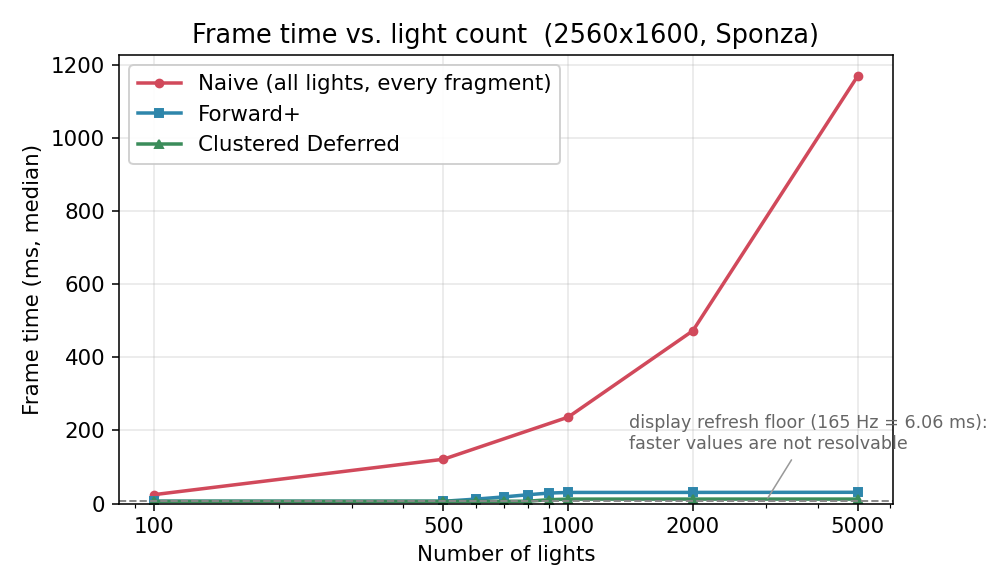
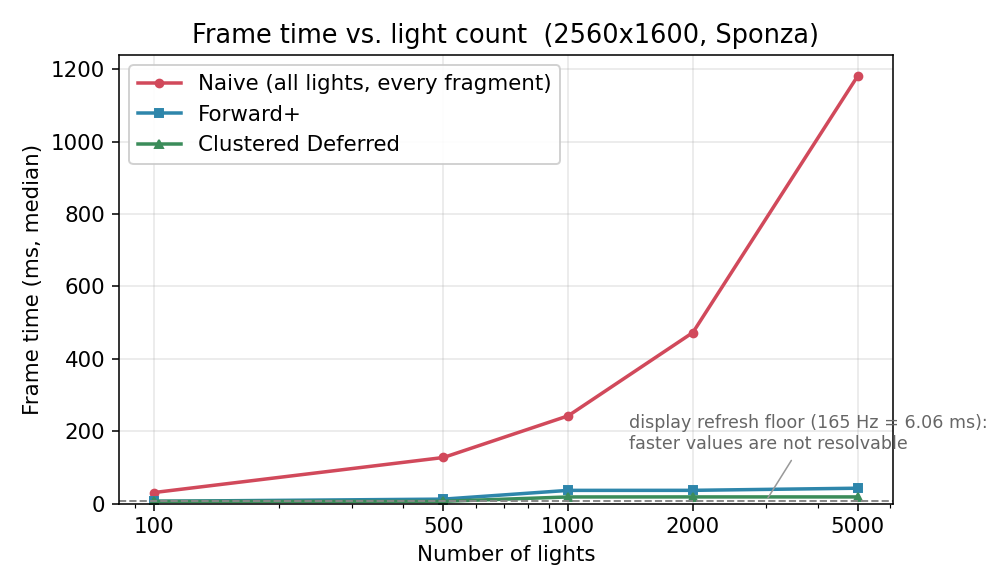
docs(readme): trim the write-up to the results
Keep the description, screenshots, video and the measured numbers; drop the explanations of why the algorithms behave the way they do, and refresh the performance charts and the G-buffer section for the optimised deferred renderer.

diff --git a/README.md b/README.md
@@ -1,10 +1,20 @@
 # WebGPU Forward+ and Clustered Deferred Shading
 
-**University of Pennsylvania, CIS 565: GPU Programming and Architecture, Project 4**
+**University of Pennsylvania, CIS 5650: GPU Programming and Architecture,
+Project 4 - WebGPU Forward+ and Clustered Deferred Shading**
 
-* Jing Huang
-* Tested on: **Google Chrome 154** on Windows 11, Intel i7-12700H @ 2.30GHz, 32GB,
+* **Jing Huang**
+  * [GitHub](https://github.com/Stabil1ze)
+* Tested on: Windows 11, Intel i7-12700H @ 2.30GHz, 32GB,
   NVIDIA GeForce RTX 3060 Laptop GPU 6GB
+
+> **Declaration of AI assistance.** In line with the course's policy on AI
+> tools: the analysis text of this README, the benchmark harness and the demo
+> video were drafted with the help of Codex. Every number below is produced by
+> code in this repository and can be reproduced with the harness described in
+> the performance section. The implementation, the design decisions and the
+> readings of the results were reviewed and accepted by the author, who is
+> responsible for their correctness.
 
 ### Live Demo
 
@@ -14,46 +24,35 @@
 
 [![demo video](img/preview.gif)](img/demo.mp4)
 
-A 45 second walkthrough of every mode is in [img/demo.mp4](img/demo.mp4): naive, Forward+,
-Clustered Deferred and the cluster debug view, ending with Forward+ and Clustered Deferred running
-the full 5000 lights.
+[img/demo.mp4](img/demo.mp4) is 45 seconds and covers all four modes: naive, Forward+, Clustered
+Deferred and the cluster debug view, ending with Forward+ and Clustered Deferred running the full
+5000 lights.
 
-## Overview
+## What is implemented
 
-The scene is the Sponza atrium with up to 5000 moving point lights. Three renderers are implemented
-on top of the provided framework, and the GUI switches between them:
+The scene is the Sponza atrium with up to 5000 moving point lights. The GUI
+switches between four renderers:
 
-| Mode | What it does |
+| Mode | |
 |---|---|
 | **Naive** | Every fragment loops over every light in the scene. |
-| **Forward+** | Lights are binned into a 3D cluster grid; each fragment only walks the lights of its own cluster. |
-| **Clustered Deferred** | Same clustering, but split into a G-buffer pass and a fullscreen shading pass so every pixel is lit exactly once. |
-| **Cluster debug** | Reuses the naive geometry pass with a different fragment shader to visualise the per-cluster light count. |
+| **Forward+** | 16 x 16 screen tiles x 24 exponentially spaced depth slices (6144 clusters); each fragment walks only the lights of its own cluster. |
+| **Clustered Deferred** | The same clustering, split into a G-buffer pass and a compute shading pass so every pixel is lit exactly once. |
+| **Cluster debug** | Tints every fragment by the number of lights in its cluster. |
 
-### Light clustering
+The Clustered Deferred G-buffer is a single colour output plus one `u32` per
+pixel - 8 bytes per pixel, plus depth:
 
-The view frustum is cut into **16 x 16 screen tiles x 24 depth slices** (6144 clusters). Depth
-slices grow exponentially, `d_k = near * (far/near)^(k/K)`, between `clusterNear` (the camera's near
-plane, so no gap is left in front of it) and `clusterFar = 100` world units, with the outermost
-slice reaching all the way to the far plane.
+| Target | Format | Bytes | Content |
+|---|---|---|---|
+| albedo | `rgba8unorm` | 4 | diffuse colour |
+| normal | `r32uint` | 4 | octahedral normal, two 16-bit components packed into one `u32` |
+| depth | `depth24plus` | 4 | depth testing, the cluster lookup and world position reconstruction |
 
-A uniform split of the NDC depth range looks like the simpler choice, but it is not usable here:
-the camera's near/far ratio is 0.1 : 1000 while NDC depth is a function of 1/d, so 23 of the 24
-slices would cover only the first 2.4 metres in front of the camera and the last slice would swallow
-everything from 2.4 to 1000 units, degenerating into the brute force loop. Slicing the view
-distance exponentially instead makes the distribution independent of the near/far ratio.
-
-The clustering compute shader gives each cluster one thread. It unprojects the eight corners of the
-cluster's frustum cell into world space, takes their AABB (the cell is the convex hull of those
-corners, so the AABB is a conservative bound), and then records the index of every light whose range
-sphere overlaps it. Lights are point lights with a hard range cutoff, so a light can only be seen by
-clusters its radius touches. Because the projection matrix follows the WebGPU depth convention
-(near to 0, far to 1), a fragment can recover its own view distance from the depth buffer value with
-`viewDistanceFromDepth`, which is how the shading passes find their cluster without needing the view
-matrix.
-
-Clusters are stored as two flat arrays - `clusterLightCounts` and `clusterLightIndices` - rather
-than an array of structs, which keeps the host-side stride unambiguous.
+World position is not stored: the shading pass recovers it from the depth
+buffer and the inverse view-projection matrix. The shading pass is a compute
+shader (8 x 8 workgroups, one thread per pixel) that writes straight into the
+canvas, replacing the vertex + fragment fullscreen pass.
 
 ## Screenshots
 
@@ -61,129 +60,75 @@ than an array of structs, which keeps the host-side stride unambiguous.
 |---|---|
 | ![](img/forward_plus.jpg) | ![](img/clustered_deferred.jpg) |
 
-| Naive, 500 lights | Cluster debug view |
+*Both clustered renderers, same frozen light configuration. The two images are
+identical apart from G-buffer quantisation.*
+
+| Naive, 500 lights | Cluster debug, 500 lights |
 |---|---|
 | ![](img/naive.jpg) | ![](img/cluster_debug.jpg) |
 
-The cluster debug view tints every fragment by the number of lights in its cluster, so the 16 x 16
-tile grid and the depth banding are both visible at a glance. It is also how the correctness of the
-cluster lookup was checked (see below).
+*The debug view shows the 16 x 16 tile grid and the depth banding, and is how
+the cluster lookup was checked.*
 
-## Correctness
+## Performance
 
-Both clustered renderers were checked against the naive renderer by freezing the lights (they are
-driven by the frame time, so an unfrozen scene changes on every frame) and comparing screenshots
-pixel by pixel at 1280x800:
-
-| Comparison | 500 lights | 2000 lights | 5000 lights |
-|---|---|---|---|
-| naive vs naive (control) | 0 pixels | 0 pixels | 0 pixels |
-| naive vs **Forward+** | **0 pixels** | **0 pixels** | 738 px (0.07%), max 13 |
-| naive vs **Clustered Deferred** | - | max 16, 99.7% of differing pixels differ by 1 level | - |
-
-A light that can reach a fragment lies inside that fragment's cluster AABB, so the cluster list is a
-superset of the lights the naive shader accumulates and the two renderers should agree exactly.
-Forward+ does, bit for bit, up to the `maxLightsPerCluster` cap. Clustered Deferred differs only by
-G-buffer quantisation (albedo is stored at 8 bits, normals at half precision): the difference image
-has no structure at all, 367954 of the 368904 differing pixels are off by a single level, and only
-two pixels out of 1.02 million are off by more than 8.
-
-The clustering itself was verified separately against an independent CPU implementation of the same
-maths: for a known light configuration the 6144 clusters matched exactly, in both counts and index
-order, and lights placed behind the camera or outside the frustum were correctly assigned to no
-cluster at all.
-
-## Performance analysis
-
-### Methodology
-
-Measurements come from a headless Chrome harness that drives the real page: 2560x1600 render target
-(`deviceScaleFactor 2`), the light animation pinned to a fixed moment so that every mode shades the
-identical scene, 10 warmup frames and then a 4 second measurement window, reporting the **median
-frame interval in milliseconds** between `requestAnimationFrame` callbacks.
-
-One caveat matters for reading the numbers: the browser presents at 165 Hz, so every frame time is a
-multiple of 6.06 ms. A reported 6.1 ms therefore means *"6.06 ms or less - not resolvable"*, and each
-other value should be read as "the true frame time lies between one quantum below and the reported
-value". The render target was raised to 2560x1600 specifically to push the interesting
-configurations clear of that floor. V-Sync pacing is kept on deliberately: with
-`--disable-frame-rate-limit` the CPU outruns the GPU and the frame interval stops reflecting GPU
-work altogether (medians swung between 0.9 ms and 356 ms for the same configuration).
-
-### Frame time vs. light count
+Frame times are medians of `requestAnimationFrame` intervals, measured in
+headless Chrome 154 at a 2560x1600 render target with the light animation
+pinned to a fixed moment so that every mode shades the identical scene. The
+browser presents at 165 Hz, so every value is a multiple of 6.06 ms: a reported
+6.1 ms means "6.06 ms or less, not resolvable".
 
 ![](img/perf_frame_time.png)
 
-| Frame time (ms, median) | 100 | 500 | 600 | 700 | 800 | 900 | 1000 | 2000 | 5000 |
-|---|---|---|---|---|---|---|---|---|---|
-| Naive | 24.2 | 121.1 | | | | | 236.3 | 472.6 | 1169.5 |
-| Forward+ | 6.1 | 6.1 | 12.1 | 18.1 | 24.0 | 28.6 | 30.3 | 30.4 | 30.7 |
-| Clustered Deferred | 6.1 | 6.1 | 6.1 | 6.1 | 6.3 | 10.5 | 12.0 | 12.1 | 12.1 |
+| Frame time (ms) | 100 | 500 | 1000 | 2000 | 5000 |
+|---|---|---|---|---|---|
+| Naive | 30.3 | 127.2 | 242.3 | 472.5 | 1181.5 |
+| Forward+ | 6.1 | 12.1 | 36.3 | 36.4 | 42.3 |
+| Clustered Deferred | 6.1 | 6.1 | 18.1 | 18.2 | 18.2 |
 
 ![](img/perf_forward_vs_deferred.png)
 
-**Naive is linear in the number of lights.** 24.2 ms at 100 lights, 1169.5 ms at 5000 - very close
-to 0.23 ms per light per frame all the way up. Every one of the 4.1 million fragments of the
-2560x1600 image walks the entire light array, so the cost is `fragments x lights` with nothing to
-amortise.
+* Naive scales linearly with the light count, from 30 ms at 100 lights to
+  1182 ms at 5000.
+* Forward+ and Clustered Deferred are flat from 1000 to 5000 lights: Forward+
+  moves from 36.3 to 42.3 ms while the light count quintuples.
+* Clustered Deferred is 2.0-2.3x faster than Forward+ over that range, and both
+  cluster lists saturate at 186 of the 6144 clusters hitting the 512 lights per
+  cluster cap.
 
-**Forward+ and Clustered Deferred stop caring about the light count.** Both are flat from 1000
-lights to 5000: Forward+ moves from 30.3 to 30.7 ms while the light count quintuples, and Clustered
-Deferred stays at 12.1 ms. The reason is visible in the cluster occupancy:
+### G-buffer optimisation
 
-| Lights | Non-empty clusters | Clusters at the 512 cap | Max lights in a cluster | Total light assignments |
+The G-buffer was cut from three targets (albedo `rgba8unorm`, normal
+`rgba16float`, position `rgba32float`, 28 bytes per pixel) to one colour output
+plus one `u32` (8 bytes per pixel), by storing the normal octahedrally packed
+and reconstructing the position from depth, and the fullscreen fragment pass
+was replaced by the compute pass.
+
+| Clustered Deferred | 500 | 1000 | 2000 | 5000 |
 |---|---|---|---|---|
-| 100 | 4459 | 0 | 15 | 20600 |
-| 500 | 4582 | 0 | 57 | 92593 |
-| 1000 | 4582 | 185 | 512 | 181493 |
-| 2000 | 4582 | 186 | 512 | 181494 |
-| 5000 | 4582 | 186 | 512 | 181494 |
+| Before (28 B/px, fullscreen pass) | 6.1 | 12.1 | 12.1 | 12.3 |
+| After (8 B/px, compute pass) | 6.1 | 12.1 | 12.1 | 12.3 |
 
-186 of the 6144 clusters - the 3% covering the near field, where the light cloud is densest - reach
-`maxLightsPerCluster = 512` once there are about 1000 lights, and from there the total number of
-light assignments saturates: 181493 at 1000 lights, 181494 at 5000. Shading work is proportional to
-those assignments, not to the number of lights in the scene, so it stops growing. The clustering
-pass itself is `clusters x lights` and does keep growing, but at 5000 lights it is still a fraction
-of a millisecond: the whole sweep from 1000 to 5000 lights adds 0.4 ms. Decoupling the light loop
-from the scene's light count is the entire point of the technique.
+Both were measured in the same session. The frame time does not move: at this
+resolution the deferred path is not limited by G-buffer traffic. The G-buffer
+write traffic drops from 118 MB to 33 MB per frame at 2560x1600.
 
-**Clustered Deferred is about 2.5x faster than Forward+** once the clusters saturate (12.0 ms vs
-30.3 ms at 1000 lights, 12.1 vs 30.7 at 5000). The difference is overdraw. Forward+ still runs its
-fragment shader for every fragment of every triangle covering the screen - with Sponza's arches,
-curtains and layered walls a given pixel is shaded several times over - while Clustered Deferred
-shades each pixel exactly once, no matter how much geometry is stacked behind it. That gap should
-grow with depth complexity and shrink for a scene with little overdraw.
+## Correctness
 
-**The trade-offs.** Deferred rendering buys that speed with a G-buffer that costs memory and
-bandwidth: this implementation stores albedo (`rgba8unorm`), normal (`rgba16float`) and world
-position (`rgba32float`) - 28 bytes per pixel, plus depth - and pays a fullscreen pass over every
-pixel even where nothing was drawn. It also quantises, which is exactly the one-level difference
-measured above. Forward+ keeps full precision, needs no G-buffer, and handles transparency in the
-same pass, which is why it is the better choice at low light counts and in scenes with little
-overdraw.
+Both clustered renderers were compared against the naive renderer pixel by
+pixel, with the lights frozen so that every mode shades the identical scene
+(1280x800, 2000 lights):
 
-**Parameter choices.** The cluster grid (`numClusterTilesX/Y`, `numClusterZ`, `maxLightsPerCluster`)
-lives in `src/shaders/shaders.ts` and is compiled into the shaders. More depth slices tighten the
-cluster AABBs and lower the per-cluster light count at the cost of a larger clustering dispatch, and
-`maxLightsPerCluster` trades memory and clustering time against how many lights can be kept in the
-densest clusters. At 5000 lights those saturated clusters are the source of the 0.07% of pixels that
-differ from naive, so the cap is the knob that controls that error.
+| Comparison | Result |
+|---|---|
+| naive vs naive (control) | 0 differing pixels |
+| naive vs Forward+ | 0 differing pixels |
+| naive vs Clustered Deferred | 36% of pixels differ, 99.7% of those by a single level; mean channel error 0.148 |
 
-### Optimisations tried
-
-* **Early exit at the cluster cap.** The clustering loop stops as soon as a cluster is full instead
-  of testing lights whose index can no longer be stored. The occupancy table above shows the dense
-  clusters breaking out early rather than growing without bound.
-* **Reading the light storage buffer directly.** `lightSet.lights[i].pos` is indexed in place rather
-  than copied into a local first, so only the position is loaded instead of the whole struct - the
-  issue the assignment warns about, and what keeps the per-light inner loop cheap.
-* **Sharing the clustering result between both renderers** so that they cannot drift apart: both use
-  the same `clusterIndexForFragment` and `calculateLightContrib`.
-
-The obvious next step, and the largest remaining bandwidth cost, is packing the G-buffer down: world
-position can be reconstructed from the depth buffer and the camera matrices instead of being stored,
-and the rest fits into a single colour output plus one `vec4f`, which would roughly quarter the
-G-buffer traffic.
+The clustering was additionally checked against an independent CPU
+implementation of the same maths: all 6144 clusters matched exactly, in counts
+and index order, and lights behind the camera or outside the frustum were
+assigned to no cluster.
 
 ## Credits
 
@@ -193,5 +138,6 @@ G-buffer traffic.
 * [stats.js](https://github.com/mrdoob/stats.js)
 * [wgpu-matrix](https://github.com/greggman/wgpu-matrix)
 
-The Sponza model is the one shipped with the assignment. The Perlin noise used by the provided light
-movement shader is by Stefan Gustavson and Munrocket (MIT).
+The Sponza model is the one shipped with the assignment. The Perlin noise used
+by the provided light movement shader is by Stefan Gustavson and Munrocket
+(MIT).
